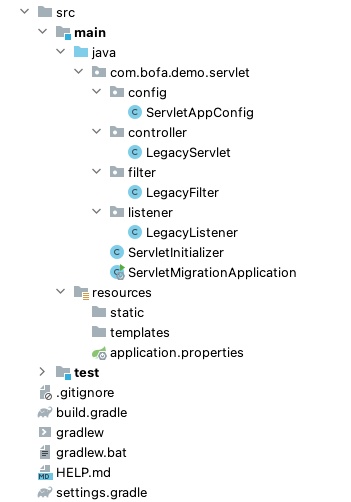
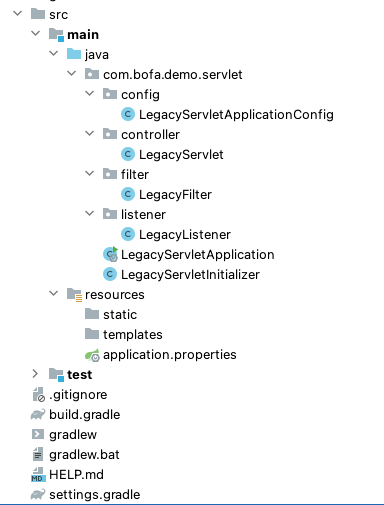
clean uo

Changed region(s): [[0.0, 0.0, 1.0, 1.0]]

diff --git a/src/main/java/com/bofa/demo/servlet/config/LegacyServletApplicationConfig.java b/src/main/java/com/bofa/demo/servlet/config/LegacyServletApplicationConfig.java
@@ -2,6 +2,7 @@ package com.bofa.demo.servlet.config;
 
 import com.bofa.demo.servlet.controller.LegacyServlet;
 import com.bofa.demo.servlet.listener.LegacyListener;
+import jakarta.servlet.ServletContextListener;
 import jakarta.servlet.http.HttpSessionListener;
 import org.springframework.boot.web.servlet.ServletListenerRegistrationBean;
 import org.springframework.boot.web.servlet.ServletRegistrationBean;
@@ -9,7 +10,7 @@ import org.springframework.context.annotation.Bean;
 import org.springframework.context.annotation.Configuration;
 
 @Configuration
-public class ServletAppConfig {
+public class LegacyServletApplicationConfig {
 
     @Bean
     public ServletRegistrationBean<LegacyServlet> legacyServletBean() {
@@ -19,20 +20,22 @@ public class ServletAppConfig {
         srbean.addUrlMappings("/legacy-servlet");
 
         return srbean;
-        //return ServletRegistrationBean bean = new ServletRegistrationBean(new LegacyServlet(), "/legacy-servlet");
+        //or just return ServletRegistrationBean bean = new ServletRegistrationBean(new LegacyServlet(), "/legacy-servlet");
     }
 
     @Bean
     public ServletListenerRegistrationBean<HttpSessionListener> legacyServletHttpListenerBean() {
-        ServletListenerRegistrationBean<HttpSessionListener> bean = new ServletListenerRegistrationBean();
+        /*ServletListenerRegistrationBean<HttpSessionListener> bean = new ServletListenerRegistrationBean();
         bean.setListener(new LegacyListener());
-        return bean;
+        return bean;*/
+        return new ServletListenerRegistrationBean<HttpSessionListener>(new LegacyListener());
     }
 
-    /* @Bean
+    @Bean
      public ServletListenerRegistrationBean<ServletContextListener> legacyServletListenerBean() {
          ServletListenerRegistrationBean<ServletContextListener> bean = new ServletListenerRegistrationBean();
          bean.setListener(new LegacyListener());
          return bean;
-     }*/
+     }
+
 }

diff --git a/src/main/java/com/bofa/demo/servlet/LegacyServletInitializer.java b/src/main/java/com/bofa/demo/servlet/LegacyServletInitializer.java
@@ -3,11 +3,11 @@ package com.bofa.demo.servlet;
 import org.springframework.boot.builder.SpringApplicationBuilder;
 import org.springframework.boot.web.servlet.support.SpringBootServletInitializer;
 
-public class ServletInitializer extends SpringBootServletInitializer {
+public class LegacyServletInitializer extends SpringBootServletInitializer {
 
     @Override
     protected SpringApplicationBuilder configure(SpringApplicationBuilder application) {
-        return application.sources(ServletMigrationApplication.class);
+        return application.sources(LegacyServletApplication.class);
     }
 
 }

diff --git a/src/main/java/com/bofa/demo/servlet/LegacyServletApplication.java b/src/main/java/com/bofa/demo/servlet/LegacyServletApplication.java
@@ -4,10 +4,10 @@ import org.springframework.boot.SpringApplication;
 import org.springframework.boot.autoconfigure.SpringBootApplication;
 
 @SpringBootApplication
-public class ServletMigrationApplication {
+public class LegacyServletApplication {
 
     public static void main(String[] args) {
-        SpringApplication.run(ServletMigrationApplication.class, args);
+        SpringApplication.run(LegacyServletApplication.class, args);
     }
 
 
